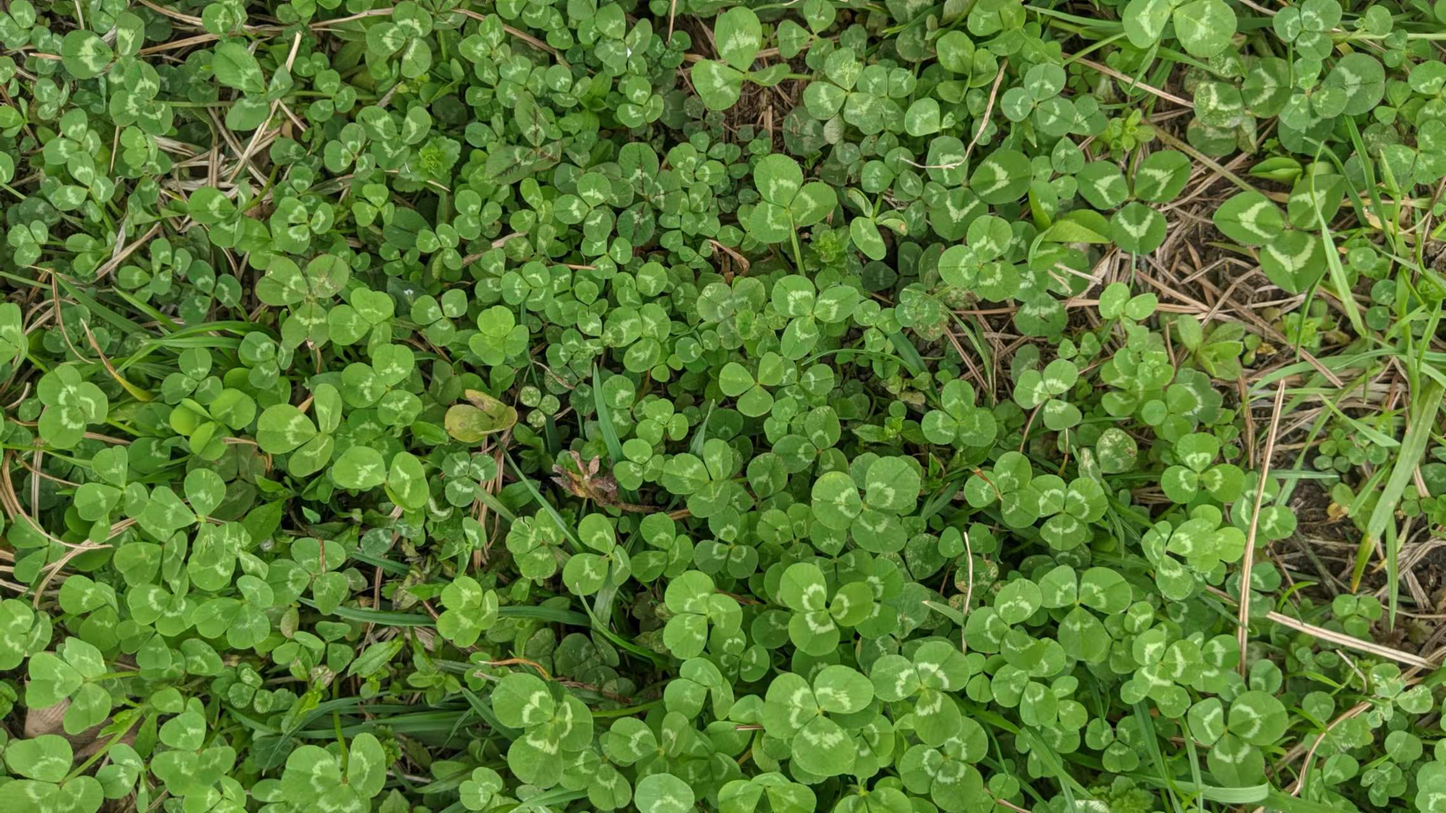
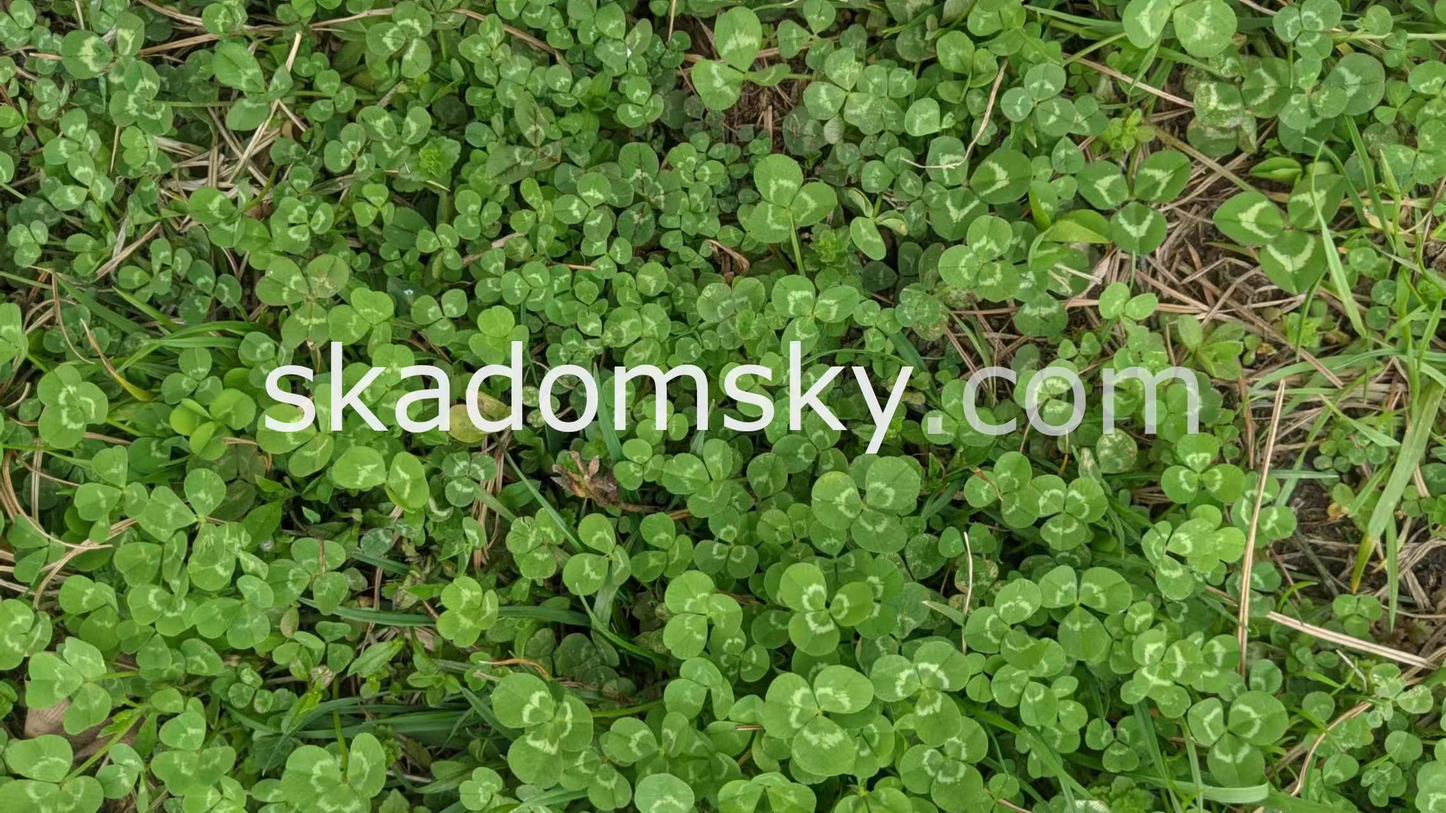
Site updated: 2024-02-23 23:47:22

Changed region(s): [[0.1872, 0.4062, 0.8423, 0.5625]]

diff --git a/about/index.html b/about/index.html
@@ -13,13 +13,13 @@
 <meta property="og:site_name" content="skadomsky.com">
 <meta property="og:description" content="非常感谢您能在浩瀚的互联大海里找到这个不起眼的角落！社交媒体同整个舆论场都太吵闹。我还是喜欢窝在犄角旮旯里，发出自己的声音，即使传播半径不大，也至少能向世界证明我曾经来过，留下过痕迹。skadomsky.com便是这短暂互联网记忆中的一部分。 本站采用Google Analysis对访问数据进行分析。其数据仅记录本站各内容的受喜好程度，并不包含对访问主体进行任何分析洞见，更不会挪做他用。作为纯个">
 <meta property="og:locale" content="zh_CN">
-<meta property="og:image" content="https://skadomsky.com/about/banner.png">
+<meta property="og:image" content="https://skadomsky.com/about/banner.jpg/">
 <meta property="og:image" content="https://freebsdfoundation.org/wp-content/uploads/2015/12/proud_donor.gif">
 <meta property="article:published_time" content="2023-09-28T14:50:05.000Z">
-<meta property="article:modified_time" content="2024-02-23T15:38:54.497Z">
+<meta property="article:modified_time" content="2024-02-23T15:47:11.794Z">
 <meta property="article:author" content="Latt Hsiang">
 <meta name="twitter:card" content="summary">
-<meta name="twitter:image" content="https://skadomsky.com/about/banner.png">
+<meta name="twitter:image" content="https://skadomsky.com/about/banner.jpg/">
 <meta name="twitter:creator" content="@hsiang_latt">
     
     
@@ -122,7 +122,7 @@
 
   <div class="content" itemprop="articleBody">
       
-          <p><img src="https://skadomsky.com/about/banner.png" alt="You should be able to view this photo, if not means you browser sucks."></p>
+          <p><img src="https://skadomsky.com/about/banner.jpg/" alt="You should be able to view this photo, if not means you browser sucks."></p>
 <p>非常感谢您能在浩瀚的互联大海里找到这个不起眼的角落！社交媒体同整个舆论场都太吵闹。我还是喜欢窝在犄角旮旯里，发出自己的声音，即使传播半径不大，也至少能向世界证明我曾经来过，留下过痕迹。<a href="https://skadomsky.com/">skadomsky.com</a>便是这短暂互联网记忆中的一部分。</p>
 <p>本站采用<a target="_blank" rel="noopener" href="https://analytics.google.com/">Google Analysis</a>对访问数据进行分析。其数据仅记录本站各内容的受喜好程度，并不包含对访问主体进行任何分析洞见，更不会挪做他用。作为纯个人性质的站点，站长无意冒犯任何人的隐私权，本站也尚未达到具有商业价值的规模。若您有特殊的隐私考量，可考虑使用<a href="https://skadomsky.com/rss2.xml/">RSS</a>阅读本站文章。</p>
 <p>本站采用<a target="_blank" rel="noopener" href="https://utteranc.es/">utterances</a>评论插件，加载速度由您所处的网络环境决定。</p>
